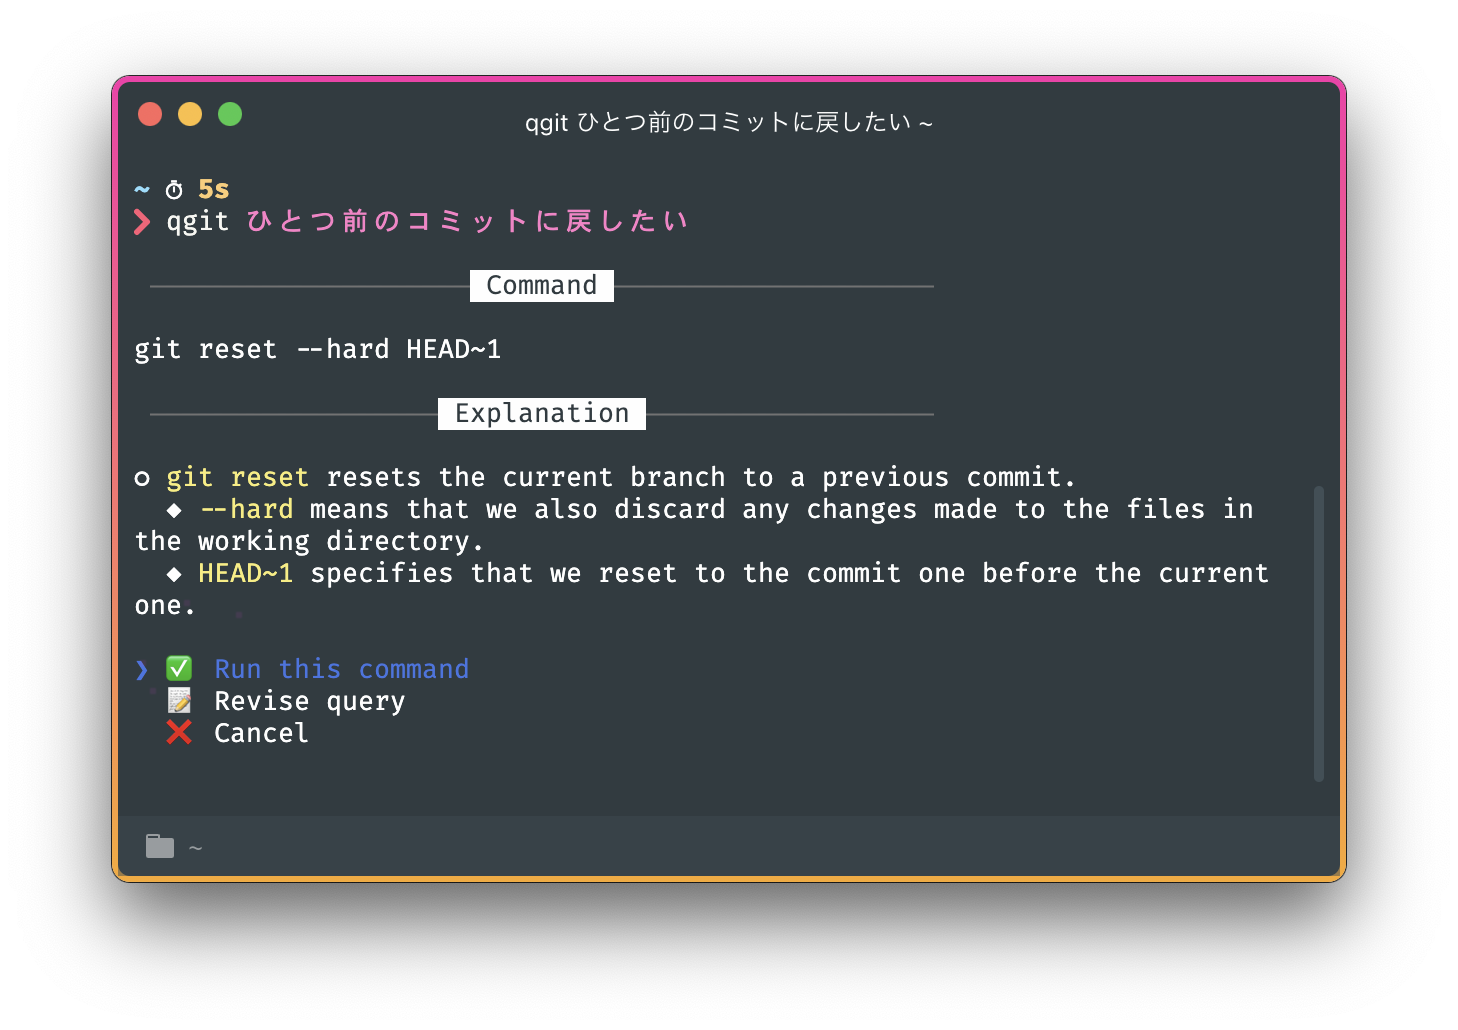
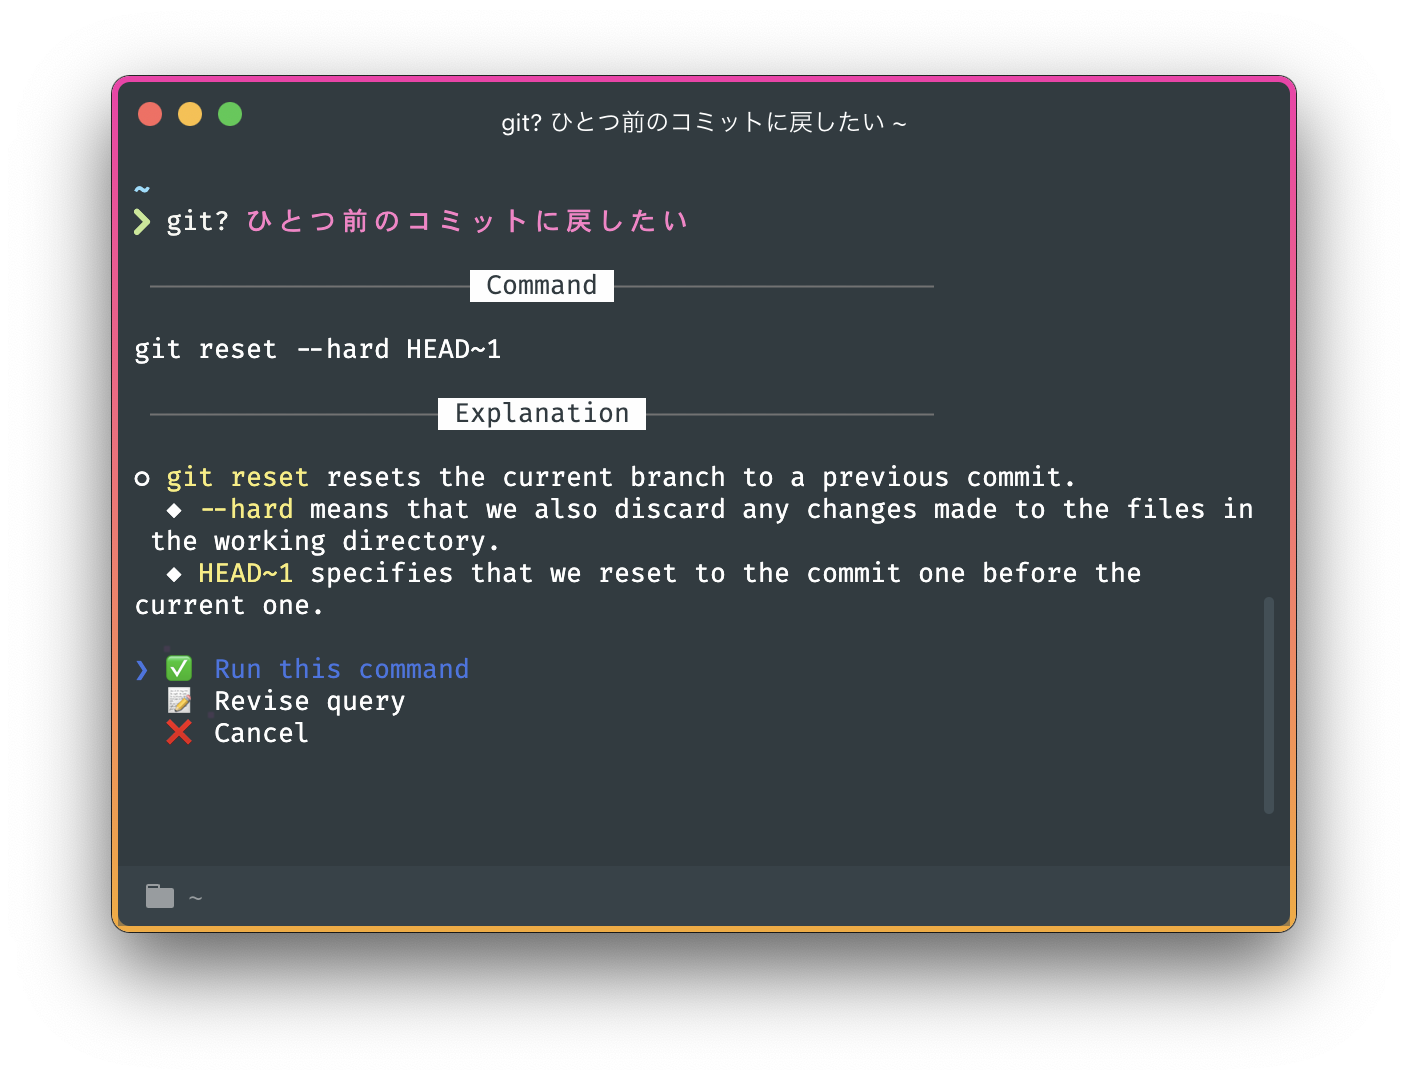
feat: :memo: Update article of github copilot for cli.

Changed region(s): [[0.0625, 0.0621, 0.9375, 0.8699]]

diff --git a/articles/b284d532ed5460.md b/articles/b284d532ed5460.md
@@ -24,12 +24,18 @@ function github-copilot_helper
         return 1
     end
 end
-alias q='github-copilot_helper what-the-shell'
-alias qgit='github-copilot_helper git-assist'
-alias qgh='github-copilot_helper gh-assist'
+alias ??='github-copilot_helper what-the-shell'
+alias git?='github-copilot_helper git-assist'
+alias gh?='github-copilot_helper gh-assist'
 ```
 
-オリジナルだと、`??`, `git?`, `gh?` という名称でaliasが設定されるけれど、fishで `?` が付いたaliasがうまく使えなかったので、それぞれ `q`, `qgit`, `qgh` という名称にしてみた。
+~~オリジナルだと、`??`, `git?`, `gh?` という名称でaliasが設定されるけれど、fishで `?` が付いたaliasがうまく使えなかったので、それぞれ `q`, `qgit`, `qgh` という名称にしてみた。~~
+
+fishで `?` が付いたaliasを使うためには、`?` がglob charとして認識されないように、[Feature flag](https://fishshell.com/docs/current/language.html#future-feature-flags) を設定する必要がある。下記のように `fish_features` に `qmark-noglob` を設定すると、`?` がglob charとして認識されずに通常の文字として使えるようになる。
+
+```sh
+set -U fish_features qmark-noglob
+```
 
 - ひとつ前のコミットに戻したい
 - リモートブランチを削除したい
